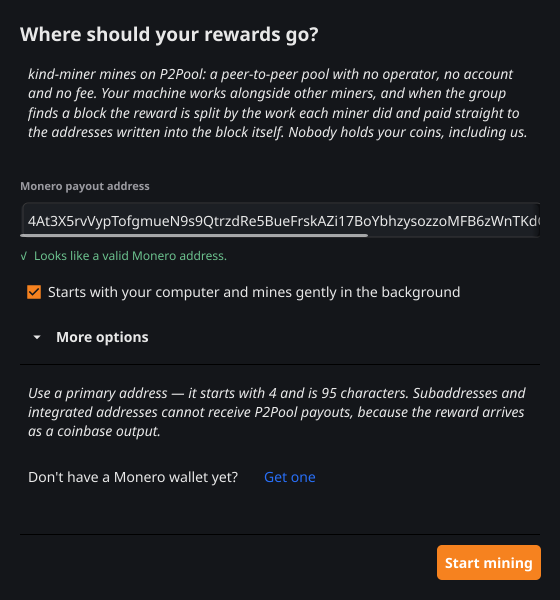
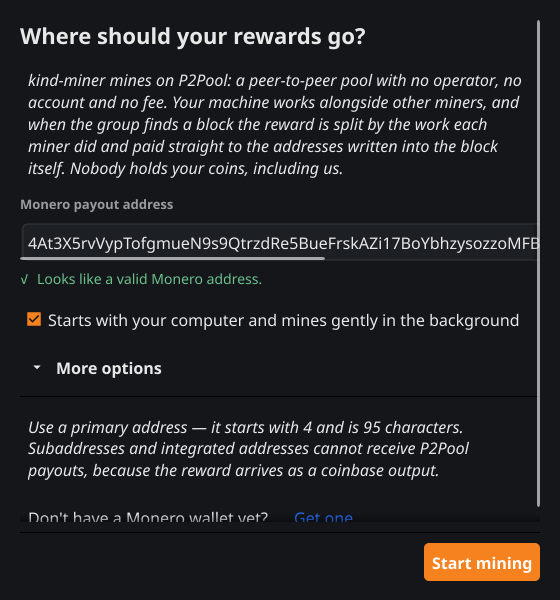
Make the app's text larger
People found the body text too small to read. Body text is now 16 points
instead of Fyne's 14, and every other size scales with it by the same
factor — the theme's caption and heading sizes and each size set by hand
(textSize in theme.go) — so the hierarchy is kept.

At the larger size the dashboard's buttons and the four kindness presets
no longer fit on one row and drew over each other, so the kindness choice
now has its own row. The settings window grows from 620x560 to 720x620,
since its section headings are single lines that cannot wrap. The README
and AppStream screenshots are regenerated.

Changed region(s): [[0.0304, 0.03, 0.9714, 0.84], [0.0607, 0.84, 0.9714, 0.99], [0.0304, 0.03, 0.6679, 0.09]]

diff --git a/internal/gui/dashboard.go b/internal/gui/dashboard.go
@@ -62,7 +62,7 @@ func (u *uiApp) newDashboard() *dashboard {
 
 	d.pill = newStatusPill()
 	d.uptime = canvas.NewText("", colorMuted)
-	d.uptime.TextSize = 11
+	d.uptime.TextSize = textSize(11)
 	d.uptime.TextStyle = fyne.TextStyle{Monospace: true}
 
 	settings := widget.NewButton("Settings", u.onSettings)
@@ -126,10 +126,10 @@ func (u *uiApp) newDashboard() *dashboard {
 
 	d.chart = newChart()
 	d.totalNow = canvas.NewText("", colorMuted)
-	d.totalNow.TextSize = 11
+	d.totalNow.TextSize = textSize(11)
 	d.totalNow.TextStyle = fyne.TextStyle{Monospace: true}
 	d.backoff = canvas.NewText("", colorMuted)
-	d.backoff.TextSize = 11
+	d.backoff.TextSize = textSize(11)
 
 	legend := container.NewBorder(nil, nil,
 		container.NewHBox(
@@ -142,8 +142,7 @@ func (u *uiApp) newDashboard() *dashboard {
 
 	plot := container.NewBorder(legend, nil, nil, nil, d.chart.Object())
 
-	// Short labels here: the footer shares its row with the kindness control,
-	// and the tray has the room for the fuller wording.
+	// Short labels here: the tray has the room for the fuller wording.
 	d.pause = widget.NewButton(labelPause, u.onToggle)
 	d.mineNow = widget.NewButton(labelMineNowShort, u.onMineNowToggle)
 
@@ -163,9 +162,12 @@ func (u *uiApp) newDashboard() *dashboard {
 		// the window only tucks kind-miner away — so the window carries it.
 		left.Add(widget.NewButton("Quit", u.confirmQuit))
 	}
-	footer := container.NewBorder(nil, nil,
-		left,
+	// Two rows, not one: at the body text size people can read, the buttons
+	// and the four presets no longer fit side by side in the window, and
+	// squeezed together they drew over each other.
+	footer := container.NewVBox(
 		container.NewHBox(sectionLabel("Kindness"), d.kindness),
+		left,
 	)
 
 	body := container.NewBorder(
@@ -186,7 +188,7 @@ func detailColumn(title string, list *kvList) fyne.CanvasObject {
 
 func legendText(s string) fyne.CanvasObject {
 	t := canvas.NewText(s, colorMuted)
-	t.TextSize = 11
+	t.TextSize = textSize(11)
 	return t
 }
 

diff --git a/internal/gui/widgets.go b/internal/gui/widgets.go
@@ -37,10 +37,10 @@ func newStatTile(label string) *statTile {
 		unit:  canvas.NewText("", colorMuted),
 		label: canvas.NewText(label, colorMuted),
 	}
-	t.value.TextSize = 22
+	t.value.TextSize = textSize(22)
 	t.value.TextStyle = fyne.TextStyle{Bold: true, Monospace: true}
-	t.unit.TextSize = 11
-	t.label.TextSize = 11
+	t.unit.TextSize = textSize(11)
+	t.label.TextSize = textSize(11)
 
 	// Baseline-align the unit with the value by pinning it to the bottom of the
 	// row; an HBox would centre it against the much taller number.
@@ -85,7 +85,7 @@ func newStatusPill() *statusPill {
 		text: canvas.NewText("Starting…", colorForeground),
 	}
 	p.dot.Resize(fyne.NewSize(8, 8))
-	p.text.TextSize = 13
+	p.text.TextSize = textSize(13)
 
 	dot := container.NewWithoutLayout(p.dot)
 	dot.Resize(fyne.NewSize(8, 8))
@@ -120,9 +120,9 @@ func newKVList() *kvList {
 // Add appends a row and returns the list for chaining.
 func (l *kvList) Add(key, value string) *kvList {
 	k := canvas.NewText(key, colorMuted)
-	k.TextSize = 11
+	k.TextSize = textSize(11)
 	v := canvas.NewText(shortenMiddle(value, valueWidth), colorForeground)
-	v.TextSize = 11
+	v.TextSize = textSize(11)
 	v.TextStyle = fyne.TextStyle{Monospace: true}
 	v.Alignment = fyne.TextAlignTrailing
 
@@ -155,7 +155,7 @@ func (l *kvList) Object() fyne.CanvasObject { return container.NewVBox(l.rows...
 // sectionLabel is a small heading above a group of controls.
 func sectionLabel(text string) fyne.CanvasObject {
 	t := canvas.NewText(text, colorMuted)
-	t.TextSize = 11
+	t.TextSize = textSize(11)
 	t.TextStyle = fyne.TextStyle{Bold: true}
 	return t
 }

diff --git a/internal/gui/theme.go b/internal/gui/theme.go
@@ -2,6 +2,7 @@ package gui
 
 import (
 	"image/color"
+	"math"
 
 	"fyne.io/fyne/v2"
 	"fyne.io/fyne/v2/theme"
@@ -62,8 +63,29 @@ func (kindTheme) Icon(name fyne.ThemeIconName) fyne.Resource {
 	return theme.DefaultTheme().Icon(name)
 }
 
+// bodyText is the body text size. Fyne's default is 14, and people found it
+// too small to read comfortably — notes and labels most of all — so every
+// size of text in the app is scaled from it together: the theme's own body,
+// caption and heading sizes, and each size set by hand (textSize), so the
+// app grows without anything losing its place in the hierarchy.
+const bodyText = 16
+
+// textScale is how much larger than designed: the sizes in the code were
+// chosen against Fyne's 14.
+const textScale = bodyText / 14.0
+
+// textSize is a hand-set text size, as designed against 14-point body text,
+// at the size the app now uses.
+func textSize(designed float32) float32 {
+	return float32(math.Round(float64(designed) * textScale))
+}
+
 func (kindTheme) Size(name fyne.ThemeSizeName) float32 {
 	switch name {
+	case theme.SizeNameText:
+		return bodyText
+	case theme.SizeNameCaptionText, theme.SizeNameSubHeadingText, theme.SizeNameHeadingText:
+		return textSize(theme.DefaultTheme().Size(name))
 	case theme.SizeNamePadding:
 		return 10
 	case theme.SizeNameInnerPadding:

diff --git a/internal/gui/app.go b/internal/gui/app.go
@@ -209,11 +209,11 @@ func (u *uiApp) tuckIntoTray() {
 
 func (u *uiApp) progressScreen(step core.Step) fyne.CanvasObject {
 	title := canvas.NewText(SetupTitle, colorForeground)
-	title.TextSize = 20
+	title.TextSize = textSize(20)
 	title.TextStyle = fyne.TextStyle{Bold: true}
 
 	line := canvas.NewText(step.String()+"…", colorAccent)
-	line.TextSize = 15
+	line.TextSize = textSize(15)
 
 	// The step blurbs are full paragraphs, so they must wrap: a non-wrapping
 	// canvas.Text would size this screen to the blurb's single-line width
@@ -245,7 +245,7 @@ func (u *uiApp) dashboardScreen() fyne.CanvasObject {
 
 func (u *uiApp) errorScreen(err error) fyne.CanvasObject {
 	title := canvas.NewText("Something went wrong", colorError)
-	title.TextSize = 20
+	title.TextSize = textSize(20)
 	title.TextStyle = fyne.TextStyle{Bold: true}
 
 	msg := widget.NewLabel(err.Error())

diff --git a/internal/gui/settings.go b/internal/gui/settings.go
@@ -79,7 +79,9 @@ func (u *uiApp) showSettings() {
 	cfg := u.sup.Config()
 
 	w := u.app.NewWindow("kind-miner — settings")
-	w.Resize(fyne.NewSize(620, 560))
+	// Wider than it was at 14-point text: the section headings are single
+	// lines that cannot wrap, and at 16 points the longest ran off the edge.
+	w.Resize(fyne.NewSize(720, 620))
 	w.CenterOnScreen()
 	u.settingsWin = w
 	w.SetOnClosed(func() { u.settingsWin = nil })
@@ -87,7 +89,7 @@ func (u *uiApp) showSettings() {
 	f := u.newSettingsForm(cfg)
 
 	status := canvas.NewText("", colorMuted)
-	status.TextSize = 12
+	status.TextSize = textSize(12)
 	fail := func(msg string) {
 		status.Text = "× " + msg
 		status.Color = colorError

diff --git a/internal/gui/onboarding.go b/internal/gui/onboarding.go
@@ -58,7 +58,7 @@ func (o *onboarding) build() {
 	o.wallet.SetPlaceHolder(WalletPlaceholder)
 	o.wallet.SetText(o.cfg.Wallet)
 	o.feedback = canvas.NewText("", colorMuted)
-	o.feedback.TextSize = 12
+	o.feedback.TextSize = textSize(12)
 
 	o.startup = widget.NewCheck(OnboardStartupLabel, nil)
 	o.startup.SetChecked(true)
@@ -181,7 +181,7 @@ const (
 
 func heading(text string) fyne.CanvasObject {
 	t := canvas.NewText(text, colorForeground)
-	t.TextSize = 19
+	t.TextSize = textSize(19)
 	t.TextStyle = fyne.TextStyle{Bold: true}
 	return t
 }

diff --git a/internal/gui/configerror.go b/internal/gui/configerror.go
@@ -23,7 +23,7 @@ func RunConfigError(err error) {
 	w.CenterOnScreen()
 
 	title := canvas.NewText("Configuration problem", colorError)
-	title.TextSize = 20
+	title.TextSize = textSize(20)
 	title.TextStyle = fyne.TextStyle{Bold: true}
 
 	msg := widget.NewLabel(err.Error())

diff --git a/internal/gui/chart.go b/internal/gui/chart.go
@@ -49,7 +49,7 @@ func newChart() *chart {
 
 	for _, pct := range []string{"100%", "50%", "0%"} {
 		t := canvas.NewText(pct, withAlpha(colorForeground, 0x5c))
-		t.TextSize = 9
+		t.TextSize = textSize(9)
 		c.labels = append(c.labels, t)
 	}
 
